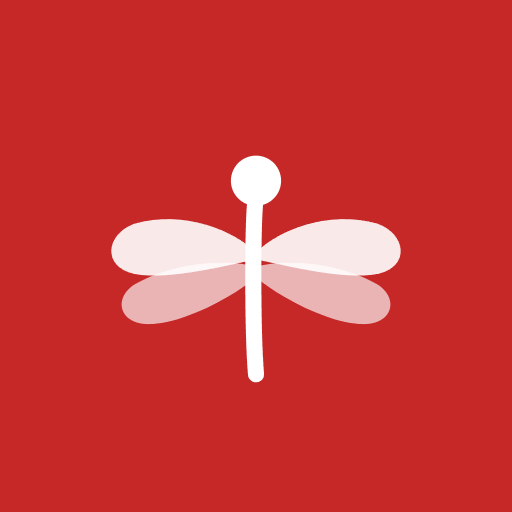
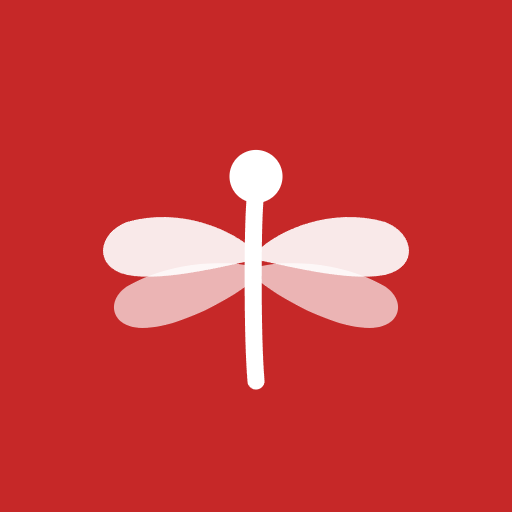
ホーム画面のアプリアイコンの大きさと美しさを最優先にするよう変更

diff --git a/frontend/public/generate-icon.html b/frontend/public/generate-icon.html
@@ -5,7 +5,7 @@
   <title>アイコン生成</title>
 </head>
 <body style="background:#f4f1ed; text-align:center; padding:60px; font-family:sans-serif;">
-<h2 style="color:#4b3e2a;">こめのいち アイコン生成 scale(0.70)</h2>
+<h2 style="color:#4b3e2a;">こめのいち アイコン生成 scale(0.74)</h2>
 <canvas id="canvas" width="512" height="512" style="max-width:200px; margin:20px; border-radius:24px; box-shadow:0 8px 24px rgba(0,0,0,0.15);"></canvas>
 <br>
 <button onclick="dl()" style="background:#C62828; color:white; border:none; padding:14px 28px; border-radius:10px; font-size:15px; cursor:pointer;">
@@ -14,7 +14,7 @@
 <script>
 const svg = `<svg width="512" height="512" viewBox="0 0 100 100" xmlns="http://www.w3.org/2000/svg">
   <rect width="100" height="100" fill="#C62828"/>
-  <g transform="translate(50,50) scale(0.70) translate(-50,-50)">
+  <g transform="translate(50,50) scale(0.74) translate(-50,-50)">
     <path d="M50 49 C44 43,30 37,16 41 C8 44,7 53,16 55 C26 57,44 52,50 51Z" fill="white" opacity="0.9"/>
     <path d="M50 49 C56 43,70 37,84 41 C92 44,93 53,84 55 C74 57,56 52,50 51Z" fill="white" opacity="0.9"/>
     <path d="M50 53 C44 51,28 51,16 58 C10 62,12 69,20 69 C30 69,44 61,50 56Z" fill="white" opacity="0.65"/>
